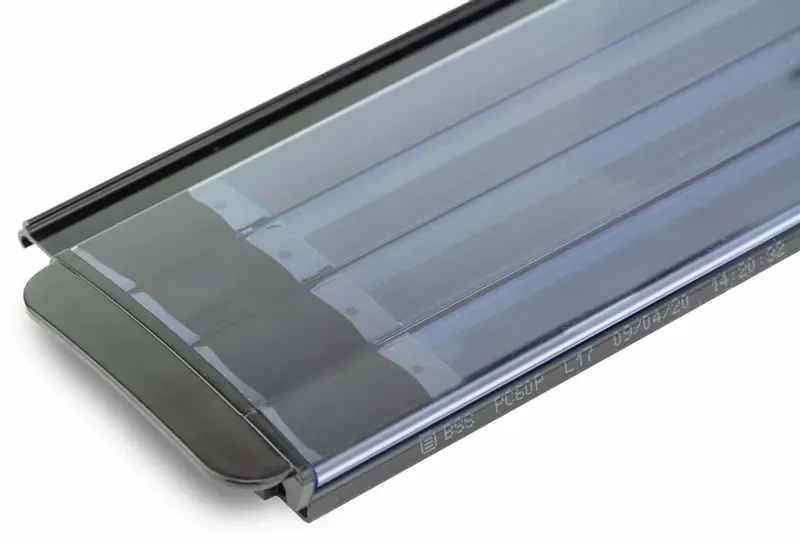
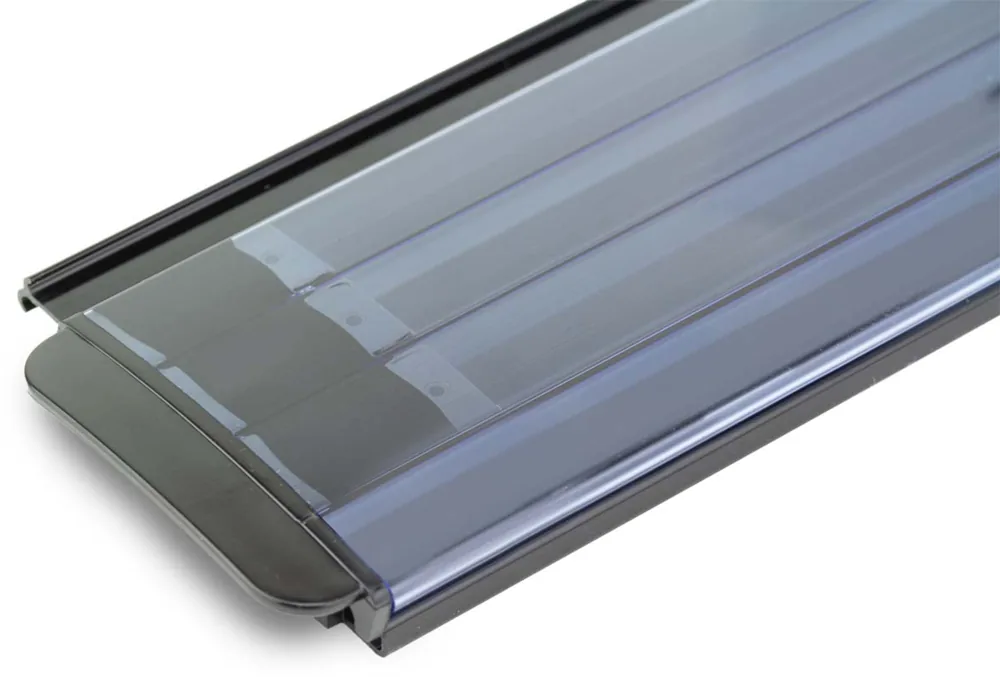
Lamellendek: betere foto's
Sfeerfoto's van de lamellenpagina (DAM/CMS) voor situatie, lamellen,
oprollen, installatie en overzicht; scherpe kleurfoto's van de
productpagina's; oprollers alleen nog als icoontje; eigen
installatie-iconen weg.

Claude-Session: https://claude.ai/code/session_01Djz3LnZnm39tVBTzhx5BqW

diff --git a/lamellendek.html b/lamellendek.html
@@ -48,7 +48,7 @@
 #toppy-lc .thc-pic{position:relative;aspect-ratio:4/3;border-radius:var(--r2);overflow:hidden;background:var(--soft);box-shadow:0 1px 0 var(--line)}
 #toppy-lc .thc-pic img{position:absolute;inset:0;width:100%;height:100%;display:block;object-fit:cover}
 #toppy-lc .thc-pic.thc-wit,#toppy-lc .thc-pic.thc-tek{background:#fff}
-#toppy-lc .thc-pic.thc-wit img{inset:12%;width:76%;height:76%;object-fit:contain}
+#toppy-lc .thc-pic.thc-wit img{inset:6%;width:88%;height:88%;object-fit:contain}
 #toppy-lc .thc-pic.thc-tek svg{position:absolute;inset:7%;width:86%;height:86%;display:block}
 #toppy-lc .thc-vraag{position:absolute;inset:0;display:flex;flex-direction:column;align-items:center;justify-content:center;gap:16px;background:var(--soft);text-align:center;padding:20px}
 #toppy-lc .thc-vraag span{display:flex;align-items:center;justify-content:center;width:min(30%,150px);aspect-ratio:1;border-radius:50%;background:#fff;border:2px solid var(--line);font-size:clamp(44px,8vw,84px);font-weight:700;line-height:1}
@@ -259,7 +259,8 @@ var INSTELLINGEN = {
   installatie: 400,     // "Inclusief installatie - vanaf € 400"
   inmeten: 150,         // "+ Inmeten van het zwembad - vanaf € 150"
   afvoeren: 150,        // "+ Afvoeren oude lamellen - vanaf € 150"
-  // Foto's staan in de map lamellendek/ van deze repo (uit het oude JotForm en de DAM van toppy.nl).
+  // Foto's staan in de map lamellendek/ van deze repo: sfeerfoto's van de lamellenpagina (DAM/CMS),
+  // kleuren van de productpagina's op toppy.nl, oprollers (alleen als icoontje) uit het oude JotForm.
   // Een betere foto? Zet hem in lamellendek/ en pas hier de bestandsnaam aan.
   afbeeldingen: {
     "Compleet lamellendek": "lamellendek/situatie-nieuw.webp",
@@ -287,7 +288,9 @@ var INSTELLINGEN = {
     "Contura": "lamellendek/contura.webp",
     "Open Banc Classic": "lamellendek/banc-classic.webp",
     "Open Banc Classic Houtkleur": "lamellendek/banc-classic-hout.webp",
-    "Banc Design": "lamellendek/banc-design.webp"
+    "Banc Design": "lamellendek/banc-design.webp",
+    "Installatie": "lamellendek/installatie.webp",
+    "Overzicht": "lamellendek/overzicht.webp"
   },
   usps: [
     "Klanten geven ons een 9/10",
@@ -448,13 +451,6 @@ function vormSvg(v, maten){
   }
   return '<svg viewBox="0 0 400 290" role="img" aria-label="Tekening '+e(v)+'" preserveAspectRatio="xMidYMid meet">'+g+'</svg>';
 }
-// eenvoudige iconen voor installatie (geen goede foto's in het oude formulier)
-var ICOON={
-  zelf:'<svg viewBox="0 0 64 48"><rect width="64" height="48" fill="#f5f5f3"/><path d="M22 34l14-14m-3-5a6 6 0 0 1 8 8l-3 3-5-5z" stroke="#343e40" stroke-width="3" fill="none" stroke-linecap="round"/><circle cx="20" cy="36" r="3" fill="#ffcb01"/></svg>',
-  partner:'<svg viewBox="0 0 64 48"><rect width="64" height="48" fill="#f5f5f3"/><circle cx="32" cy="17" r="7" fill="#343e40"/><path d="M19 40c1-8 6-12 13-12s12 4 13 12z" fill="#343e40"/><path d="M24 13h16v-3a8 8 0 0 0-16 0z" fill="#ffcb01"/></svg>',
-  inmeten:'<svg viewBox="0 0 64 48"><rect width="64" height="48" fill="#f5f5f3"/><rect x="10" y="18" width="44" height="12" rx="2" fill="#ffcb01" stroke="#343e40" stroke-width="2"/><path d="M16 18v5M22 18v4M28 18v5M34 18v4M40 18v5M46 18v4" stroke="#343e40" stroke-width="2"/></svg>',
-  afvoeren:'<svg viewBox="0 0 64 48"><rect width="64" height="48" fill="#f5f5f3"/><path d="M22 16h20l-2 22H24z" fill="#343e40"/><path d="M19 15h26M28 11h8" stroke="#343e40" stroke-width="3" stroke-linecap="round"/><path d="M29 21v13M35 21v13" stroke="#ffcb01" stroke-width="2"/></svg>'
-};
 
 /* ---------- onderdelen ---------- */
 // rij: k = veld in S, v = waarde; opt: naam, sub, prijs [bedrag, onderschrift], beeld, svg, foto, check, adv
@@ -500,9 +496,9 @@ function podium(){
   else if(id==='lamellen'){ v=laatst&&INSTELLINGEN.lamellen[laatst]?laatst:S.type; u=img(v); extra=vergelijking(); }
   else if(id==='kleur'){ v=S.kleur; adv=v===ADVIES; u=img(S.type+'|'+v); wit=!!u; if(!u) u=img(S.type); }
   else if(id==='zwembad'){ v=S.vorm; adv=v==='Andere vorm'; sv=vormSvg(v,true); uitleg=adv?'':'L is de lengte inclusief een eventuele trap, B is de breedte. De lamellen rollen op in de lengte.'; }
-  else if(id==='oprollen'){ if(S.systeem==='Bovengronds systeem'){ v=S.oproller===ADVIES?S.systeem:S.oproller; u=img(v); wit=!!u&&v!==S.systeem; } else if(S.systeem===ADVIES){ v=ADVIES; adv=true; } else { v=S.systeem; u=img(v); wit=true; uitleg='Voor een onderwater buismotor is een nis bij de bouw van het zwembad nodig. De specialist stemt de motor af op je zwembad en je nis.'; } }
-  else if(id==='installatie'){ v=S.type; u=img(S.type); uitleg='Kies je voor zelf installeren? Dan helpen we je op afstand. Is er een kraan nodig, dan regelen we die op aanvraag (tegen betaling).'; }
-  else { v=S.type; u=img(S.type); }
+  else if(id==='oprollen'){ if(S.systeem==='Bovengronds systeem'){ v=S.systeem; u=img(v); } else if(S.systeem===ADVIES){ v=ADVIES; adv=true; } else { v=S.systeem; u=img(v); wit=true; uitleg='Voor een onderwater buismotor is een nis bij de bouw van het zwembad nodig. De specialist stemt de motor af op je zwembad en je nis.'; } }
+  else if(id==='installatie'){ v='Installatie'; u=img('Installatie')||img(S.type); uitleg='Kies je voor zelf installeren? Dan helpen we je op afstand. Is er een kraan nodig, dan regelen we die op aanvraag (tegen betaling).'; }
+  else { v=''; u=img('Overzicht')||img(S.type); }
   var vt=id==='zwembad'?'Geen standaardvorm? Een zwembadspecialist kijkt met je mee':'Geen probleem, een specialist adviseert je persoonlijk';
   return '<figure class="thc-stage"><div class="thc-pic'+(sv?' thc-tek':wit?' thc-wit':'')+'">'+(adv?'<div class="thc-vraag"><span>?</span><p>'+vt+'</p></div>':sv?sv:u?'<img src="'+e(u)+'" alt="" decoding="async" data-src="'+e(u)+'">':'')+
     (v&&!adv&&v!==ADVIES?'<figcaption>'+e(id==='kleur'?S.type+' · '+v:v)+'</figcaption>':'')+gekozen()+'</div>'+
@@ -578,11 +574,11 @@ function inhoud(id){
   }
   if(id==='installatie'){
     h+='<fieldset class="thc-q"><legend>Wie installeert?</legend><div class="thc-list">'+
-      rij('installatie','zelf',{svg:ICOON.zelf,naam:'Ik installeer zelf',sub:'Met onze hulp op afstand'})+
-      rij('installatie','partner',{svg:ICOON.partner,naam:'Inclusief installatie',sub:'Door een van onze partners',prijs:[eur(INSTELLINGEN.installatie),'vanaf']})+'</div></fieldset>'+
+      rij('installatie','zelf',{naam:'Ik installeer zelf',sub:'Met onze hulp op afstand'})+
+      rij('installatie','partner',{naam:'Inclusief installatie',sub:'Door een van onze partners',prijs:[eur(INSTELLINGEN.installatie),'vanaf']})+'</div></fieldset>'+
       '<fieldset class="thc-q"><legend>Extra <small>meerdere keuzes mogelijk</small></legend><div class="thc-list">'+
-      rij('inmeten','1',{check:true,svg:ICOON.inmeten,naam:'Inmeten van het zwembad',sub:'Een partner meet je zwembad precies in',prijs:[eur(INSTELLINGEN.inmeten),'vanaf']})+
-      (nieuw()?'':rij('afvoeren','1',{check:true,svg:ICOON.afvoeren,naam:'Afvoeren oude lamellen',sub:'Wij nemen je oude lamellen mee',prijs:[eur(INSTELLINGEN.afvoeren),'vanaf']}))+'</div></fieldset>';
+      rij('inmeten','1',{check:true,naam:'Inmeten van het zwembad',sub:'Een partner meet je zwembad precies in',prijs:[eur(INSTELLINGEN.inmeten),'vanaf']})+
+      (nieuw()?'':rij('afvoeren','1',{check:true,naam:'Afvoeren oude lamellen',sub:'Wij nemen je oude lamellen mee',prijs:[eur(INSTELLINGEN.afvoeren),'vanaf']}))+'</div></fieldset>';
   }
   if(id==='overzicht') h+=formulier()+'<ul class="thc-usp thc-gerust"><li>Gratis en vrijblijvend</li><li>Persoonlijk voorstel op maat</li></ul>';
   return h;
